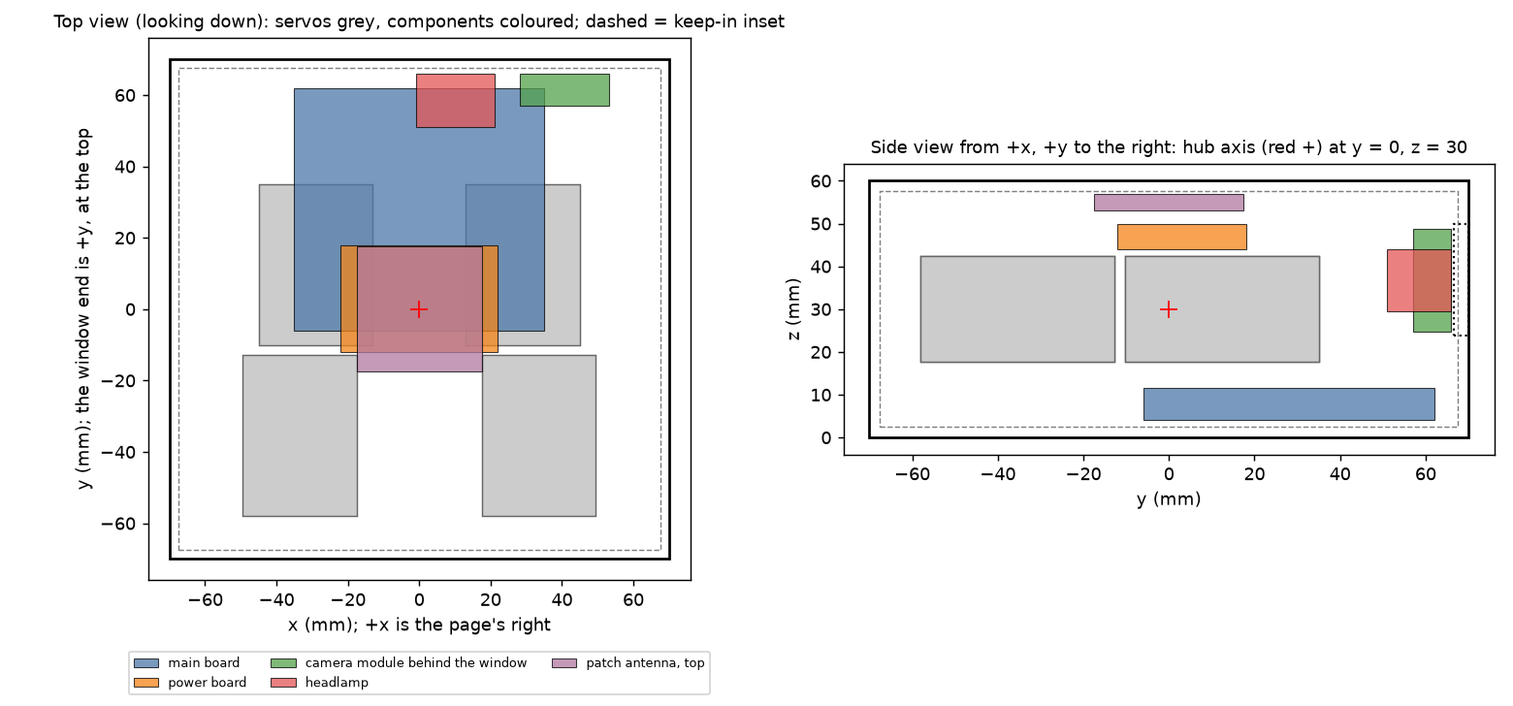
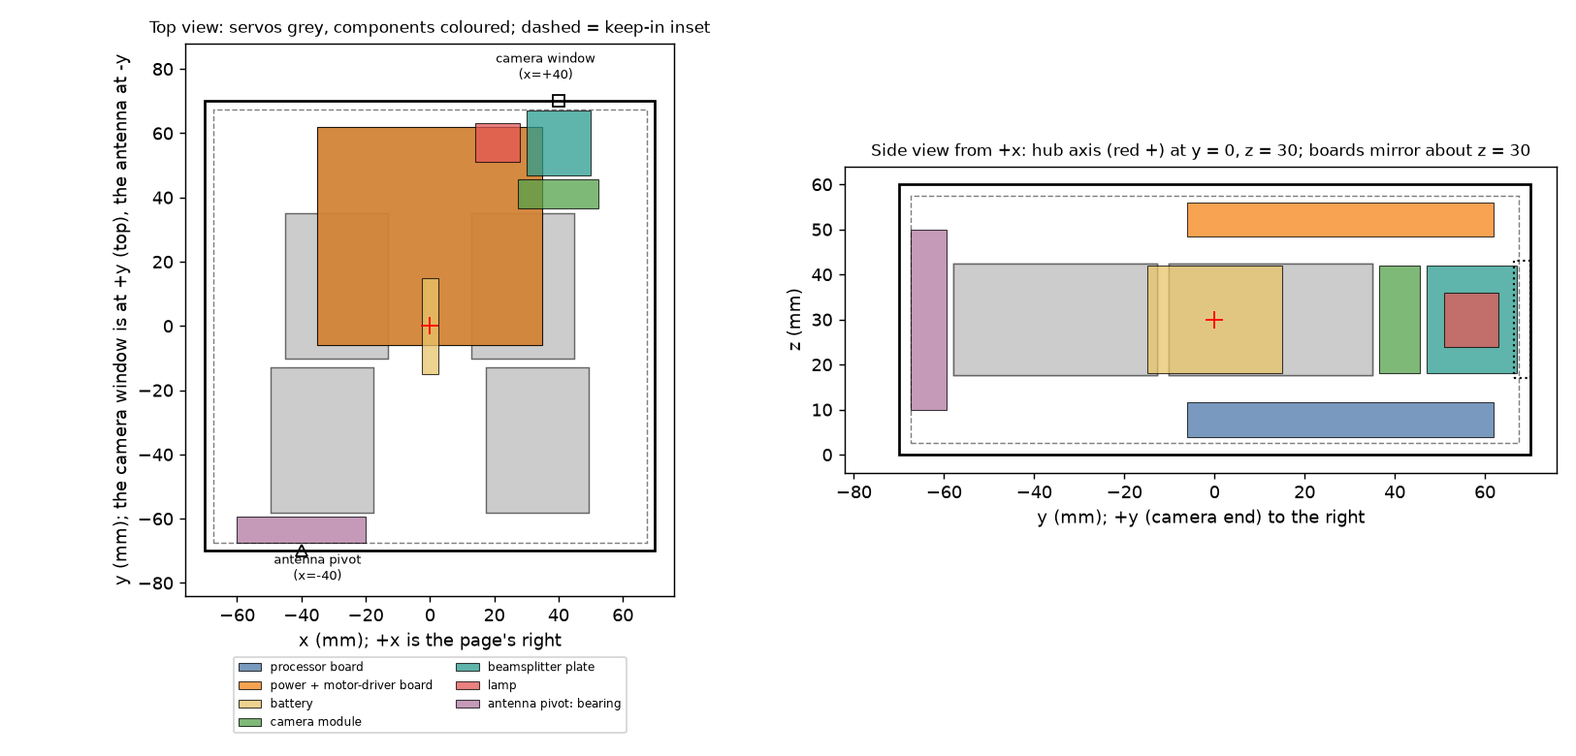
Body redesign: owner's layout decisions (identical top/bottom lids, shared camera and lamp window, gravity-oriented antenna), power study and revised layout
Claude-Session: https://claude.ai/code/session_01B6dv3M1QygXiNnSEJcRBxb

Changed region(s): [[0.0308, 0.0, 0.5231, 0.9973], [0.4923, 0.1813, 1.0, 0.7253]]

diff --git a/hardware/body/layout.py b/hardware/body/layout.py
@@ -104,34 +104,42 @@ for n, (x0, x1, y0, y1, z0, z1) in bays.items():
     print(f"  {n:38s} {m.sum() * vox:6.0f} cm3   extent {e} mm")
 
 # ---------------- components (PLACEHOLDERS: sizes and masses are assumptions, no parts chosen) ----------------
-WIN_X, WIN_Z = 40.8, 36.8       # body.py: window axis on the +y face
-LAMP_X = WIN_X - 30.6           # headlamp about 30.6 mm toward -x from the window axis (body-spec.md), same height
-comps = {  # name: (mass g, (x0, x1, y0, y1, z0, z1), note)
-    "main board (processor, 4 motor drivers, servo bus)": (35.0, (-35, 35, -6, 62, 4, 11.6),   "70 x 68 x 7.6 mm placeholder, low in the lower bay"),
-    "power board (solar conditioning, no battery)":       (12.0, (-22, 22, -12, 18, 44, 50),    "44 x 30 x 6 mm placeholder, upper bay"),
-    "camera module behind the window":                    (12.0, (WIN_X - 12.5, WIN_X + 12.5, 57, 66, WIN_Z - 12, WIN_Z + 12), "25 x 24 x 9 mm module plus lens, lens 1 mm behind the pane"),
-    "headlamp (sealed beam) and driver":                  (5.0,  (LAMP_X - 11, LAMP_X + 11, 51, 66, WIN_Z - 7.25, WIN_Z + 7.25), "22 x 14.5 bezel, 15 mm deep"),
-    "patch antenna, top":                                 (6.0,  (-17.5, 17.5, -17.5, 17.5, 53, 57), "35 x 35 x 4 mm; needs a non-conductive window in a carbon top"),
+# Owner's decisions (2026-11-11): top and bottom faces are identical lids carrying cells; the body is kept symmetric about the transverse (z = 30) plane;
+# the camera window is centred on a 60 x 60 mm square at one end of an end face (30 mm from the top, bottom and side edges): x = +40, z = 30 on the +y face;
+# one window shared by camera and lamp through a beamsplitter; the antenna on the opposite end face at the diagonally opposite position, x = -40, z = 30 on the -y face
+# (a 180 degree turn about z carries the camera's square onto the antenna's), on a gravity-oriented pivot with a counterweight.
+WIN_X, WIN_Z = 40.0, 30.0
+ANT_X, ANT_Z = -40.0, 30.0
+comps = {  # name: (mass g, (x0, x1, y0, y1, z0, z1), note, optional (x, y, z) of the centre of mass if not the box centre)
+    "processor board (lower lid module)":   (20.0, (-35, 35, -6, 62, 4, 11.6),      "70 x 68 x 7.6 mm placeholder, rides on the bottom lid", None),
+    "power + motor-driver board (upper lid module)": (20.0, (-35, 35, -6, 62, 48.4, 56.0), "mirror of the lower board about z = 30, rides on the top lid", None),
+    "battery (500 mAh class, 1S)":          (12.0, (-2.5, 2.5, -15, 15, 18, 42),    "in the 16 mm gap between the servo pairs; the servos and wheel motors need 12 V and 6 V rails (boost) or a 2S pack", None),
+    "camera module":                        (12.0, (WIN_X - 12.5, WIN_X + 12.5, 36.5, 45.5, WIN_Z - 12, WIN_Z + 12), "25 x 24 x 9 mm, looking +y through the beamsplitter", None),
+    "beamsplitter plate, 45 degrees":       (3.0,  (WIN_X - 10, WIN_X + 10, 47, 67, WIN_Z - 12, WIN_Z + 12), "28 x 24 x 1.5 mm glass plate at 45 degrees; box is its bounding volume. A 25 mm cube would be about 39 g (my estimate)", None),
+    "lamp (LED and lens), shines +x onto the plate": (5.0, (14, 28, 51, 63, WIN_Z - 6, WIN_Z + 6), "on the body-centre side of the plate, which reflects it toward +y and out of the window", None),
+    "antenna pivot: bearing, rotary RF joint, counterweight disc": (10.0, (ANT_X - 20, ANT_X + 20, -67.5, -59.5, ANT_Z - 20, ANT_Z + 20), "swing disc 40 mm across, 8 mm deep, behind the -y wall; 2 mm clear of servo A", None),
 }
-extra_mass = {  # no position in the box needed: on or near the centre
-    "wiring, connectors, servo cables": (15.0, (0.0, 0.0, HZ)),
-    "solar cells (four faces, about 60% coverage)": (None, (0.0, 0.0, HZ)),
+OUT_COMPS = {  # outside the envelope, counted for mass and balance only
+    "antenna whip, bend and stub (outside the -y face)": (3.0, (ANT_X, -76.0, ANT_Z)),
 }
-CELL_AREA_CM2 = (2 * 140 * 140 + 2 * 140 * 60) / 100.0 * 0.6      # ASM: two 140 x 140 faces and two 140 x 60 faces, 60% covered
-CELL_G_PER_CM2 = (0.15, 0.25, 0.35)                              # ASM: thin to thick bonded cells with cover and wiring; no cell chosen
+extra_mass = {"wiring, connectors, board-to-board links": (15.0, (0.0, 0.0, HZ))}
+# cells: owner's rule = top and bottom (identical), plus both end faces; none on the hub faces (the struts are there)
+FACE_TB = 10 * (39.6 * 23.5) / 100 + 4 * (19.6 * 44.0) / 100       # cm2: black unit's top face layout (photo-measurements.md)
+FACE_END = 3 * (23.5 * 39.6) / 100                                  # cm2: three cells standing in the 80 x 60 mm beside the window or antenna square
+CELL_AREA_CM2 = 2 * FACE_TB + 2 * FACE_END
+CELL_G_PER_CM2 = (0.15, 0.25, 0.35)                                # ASM: no cell chosen
 
 print("\nplacement checks (box inside the keep-in volume, clear of servos and hub, clear of each other):")
 ok_all = True
 placed = {}
-for n, (m, (x0, x1, y0, y1, z0, z1), note) in comps.items():
+for n, (m, (x0, x1, y0, y1, z0, z1), note, _c) in comps.items():
     bm = box_mask(x0, x1, y0, y1, z0, z1)
-    n_vox = bm.sum()
     bad_keep = (bm & ~keep_in).sum()
     bad_occ = (bm & occ).sum()
     placed[n] = bm
     ok = bad_keep == 0 and bad_occ == 0
     ok_all &= ok
-    print(f"  {'OK ' if ok else 'BAD'} {n:52s} {m:5.1f} g  {(x1 - x0):4.0f} x {(y1 - y0):3.0f} x {(z1 - z0):3.0f}   outside keep-in {bad_keep * vox:.1f} cm3, on servos/hub {bad_occ * vox:.1f} cm3")
+    print(f"  {'OK ' if ok else 'BAD'} {n:60s} {m:5.1f} g  {(x1 - x0):4.0f} x {(y1 - y0):3.0f} x {(z1 - z0):3.0f}   outside keep-in {bad_keep * vox:.1f} cm3, on servos/hub {bad_occ * vox:.1f} cm3")
 names = list(placed)
 for i in range(len(names)):
     for j in range(i + 1, len(names)):
@@ -142,72 +150,78 @@ for i in range(len(names)):
 print("  all placements clear" if ok_all else "  PROBLEMS above")
 used = sum(m.sum() for m in placed.values()) * vox
 print(f"  placed components take {used:.0f} cm3 of the {free.sum() * vox:.0f} cm3 free ({used / (free.sum() * vox):.0%})")
+print(f"  cells: top and bottom {FACE_TB:.1f} cm2 each, end faces {FACE_END:.1f} cm2 each, total {CELL_AREA_CM2:.0f} cm2")
 
 # ---------------- mass and centre of mass ----------------
 print("\nmass of the body contents (grams) against the 386 g left of 1.0 kg:")
-SHELL = {"woven plates, 1.0 mm": 113.0 + 28.0, "forged tub, 1.5 mm": 164.0}   # budget table in docs/body-redesign.md (plates plus about 28 g of keys and adhesive)
-ALLOW = 4 * 6.0 + 4 * 2.0 + 15.0 - 15.0                                       # bore rings, screws and inserts (the 15 g seal is counted below)
+SHELL = {"woven plates, 1.0 mm": 113.0 + 28.0, "forged, 1.5 mm": 164.0}      # budget table in docs/body-redesign.md (plates plus about 28 g of keys and adhesive)
+ALLOW = 4 * 6.0 + 4 * 2.0                                                      # bore rings, screws and inserts
 SEAL = 15.0
+elec = sum(m for m, _, _, _ in comps.values()) + sum(m for m, _ in OUT_COMPS.values()) + extra_mass["wiring, connectors, board-to-board links"][0]
 for shell_name, shell_g in SHELL.items():
     for cg in CELL_G_PER_CM2:
         cells = CELL_AREA_CM2 * cg
-        parts = sum(m for m, _, _ in comps.values()) + extra_mass["wiring, connectors, servo cables"][0]
-        total = shell_g + ALLOW + SEAL + parts + cells
-        print(f"  {shell_name:22s} cells {cg:.2f} g/cm2 ({cells:3.0f} g): shell {shell_g:3.0f} + rings/screws {ALLOW:2.0f} + seal {SEAL:.0f} + electronics etc {parts:3.0f} + cells {cells:3.0f} = {total:4.0f} g  ({'over by' if total > 386 else 'under by'} {abs(total - 386):.0f} g)")
+        total = shell_g + ALLOW + SEAL + elec + cells
+        print(f"  {shell_name:22s} cells {cg:.2f} g/cm2 ({cells:3.0f} g): shell {shell_g:3.0f} + rings/screws {ALLOW:2.0f} + seal {SEAL:.0f} + electronics etc {elec:3.0f} + cells {cells:3.0f} = {total:4.0f} g  ({'over by' if total > 386 else 'under by'} {abs(total - 386):.0f} g)")
 
-# centre of mass (y, z) of the body contents with plates and mid cells; x is symmetric apart from the camera and headlamp
+lumps = []   # (mass, x, y, z)
 shell_g = SHELL["woven plates, 1.0 mm"]
 cells_g = CELL_AREA_CM2 * CELL_G_PER_CM2[1]
-lumps = [(shell_g + ALLOW + SEAL, 0.0, HZ), (cells_g, 0.0, HZ), (extra_mass["wiring, connectors, servo cables"][0], 0.0, HZ)]
-for n, (m, (x0, x1, y0, y1, z0, z1), _) in comps.items():
-    lumps.append((m, (y0 + y1) / 2, (z0 + z1) / 2))
-M = sum(m for m, _, _ in lumps)
-cy = sum(m * y for m, y, _ in lumps) / M
-cz = sum(m * z for m, _, z in lumps) / M
-print(f"\nbody contents (plates, mid cells): {M:.0f} g, centre of mass y = {cy:+.1f} mm, z = {cz:.1f} mm (hub axis at y = 0, z = 30)")
-# chassis_sim.py: the whole-rover centre of mass at a symmetric stance is (body lump * 0 + hub + servos) / total, because the struts, wheels and
-# supports are roughly symmetric about y = 0; that gave -2.9 mm with the 386 g body lump at y = 0. Replace the lump by this layout's contents.
+# cells: top and bottom equal and opposite in z; end cells sit in the x ranges not taken by the window or the antenna
+cell_each = lambda a: a * CELL_G_PER_CM2[1]
+lumps += [(cell_each(FACE_TB), 0.0, 0.0, 60.0), (cell_each(FACE_TB), 0.0, 0.0, 0.0),
+          (cell_each(FACE_END), -30.0, 70.0, HZ), (cell_each(FACE_END), 30.0, -70.0, HZ)]      # front cells at x -67..7, back cells at x -7..67 (centroids about -30 and +30)
+lumps += [(shell_g + ALLOW + SEAL, 0.0, 0.0, HZ), (extra_mass["wiring, connectors, board-to-board links"][0], 0.0, 0.0, HZ)]
+for n, (m, (x0, x1, y0, y1, z0, z1), _, c) in comps.items():
+    lumps.append((m, *(c if c else ((x0 + x1) / 2, (y0 + y1) / 2, (z0 + z1) / 2))))
+for n, (m, (x, y, z)) in OUT_COMPS.items():
+    lumps.append((m, x, y, z))
+# servos and hub parts (the body's frame, both sides), grams from hub.py: servo 55 g each; hub parts 74 g total at the hub axis
+for (tag, side), s_ in servos.items():
+    lumps.append((55.0, side * (s_["xf"] - H.SV_H / 2), (s_["y0"] + s_["y1"]) / 2, HZ))
+lumps.append((74.0, 0.0, -5.0, HZ))
+M = sum(l[0] for l in lumps)
+cx, cy, cz = (sum(l[0] * l[k] for l in lumps) / M for k in (1, 2, 3))
+print(f"\nbody contents + servos + hub (plates, mid cells): {M:.0f} g, centre of mass x = {cx:+.1f}, y = {cy:+.1f}, z = {cz:.1f} mm (hub axis at x = 0, y = 0, z = 30)")
+top = sum(l[0] for l in lumps if l[3] > HZ + 0.01); bot = sum(l[0] for l in lumps if l[3] < HZ - 0.01)
+print(f"mass above z = 30: {top:.0f} g, below: {bot:.0f} g (a transverse-plane-symmetric body has these equal; the camera, antenna and battery sit on the plane)")
+# struts, wheels and supports: add their roughly symmetric lumps (320 g) to get the whole-rover y
 import chassis_sim as C  # noqa: E402
-g = 1000.0
-hub_servo_moment = g * (C.M_HUB * (-5.0) + 2 * 0.055 * C.SERVO_B_Y * 1000 + 2 * 0.055 * C.SERVO_A_Y * 1000)    # g.mm of hub parts and servos about y = 0
-other = g * (C.M_HUB + C.M_SERVO + C.M_STRUT + C.M_WHEEL + C.M_SUPPORT)                                          # g, everything but the body
-sim_y = hub_servo_moment / (C.M_BODY * g + other)
-new_y = (M * cy + hub_servo_moment) / (M + other)
-need = -hub_servo_moment / (C.M_BODY * g)
-print(f"simulation (body lump {C.M_BODY * g:.0f} g at y = 0): whole-rover centre of mass y = {sim_y:+.1f} mm; this layout ({M:.0f} g at y = {cy:+.1f}, total {M + other:.0f} g): y = {new_y:+.1f} mm")
-print(f"a {C.M_BODY * g:.0f} g body would put the whole rover on the hub axis at a centroid of y = {need:+.1f} mm; the z shift of the whole centre of mass is "
-      f"{M * (cz - HZ) / (M + other):+.2f} mm (negligible)")
+struts = C.M_STRUT + C.M_WHEEL + C.M_SUPPORT
+whole_y = (M * cy) / (M + 1000 * struts)
+sim_y = 1000 * (C.M_HUB * -0.005 + 2 * 0.055 * C.SERVO_B_Y + 2 * 0.055 * C.SERVO_A_Y) / 1.0
+print(f"whole-rover centre of mass y (struts, wheels and supports taken symmetric about y = 0): {whole_y:+.2f} mm; the chassis simulation had {sim_y:+.1f} mm with the body lump at the centre")
 
 # ---------------- picture ----------------
 try:
     import matplotlib
     matplotlib.use("Agg")
     import matplotlib.pyplot as plt
-    from matplotlib.patches import Rectangle, Circle
-    fig, ax = plt.subplots(1, 2, figsize=(12, 5.6))
-    cols = {"main": "#4c78a8", "power": "#f58518", "camera": "#54a24b", "headlamp": "#e45756", "patch": "#b279a2"}
-    pal = ["#4c78a8", "#f58518", "#54a24b", "#e45756", "#b279a2"]
+    from matplotlib.patches import Rectangle
+    fig, ax = plt.subplots(1, 2, figsize=(12.5, 6))
+    pal = ["#4c78a8", "#f58518", "#e9c46a", "#54a24b", "#2a9d8f", "#e45756", "#b279a2"]
 
     def draw(a, ia, ib, xl, yl, title):
         a.add_patch(Rectangle((-70, 0) if ib == 2 else (-70, -70), 140, 60 if ib == 2 else 140, fill=False, lw=1.5, ec="k"))
         a.add_patch(Rectangle((-70 + OFF, OFF if ib == 2 else -70 + OFF), 140 - 2 * OFF, (60 - 2 * OFF) if ib == 2 else 140 - 2 * OFF, fill=False, lw=0.8, ls="--", ec="gray"))
-        for (tag, side), s in servos.items():
-            ext = {0: (side * (s["xf"] - H.SV_H), side * s["xf"]), 1: (s["y0"], s["y1"]), 2: (HZ - SV_Z, HZ + SV_Z)}
+        for (tag, side), s_ in servos.items():
+            ext = {0: (side * (s_["xf"] - H.SV_H), side * s_["xf"]), 1: (s_["y0"], s_["y1"]), 2: (HZ - SV_Z, HZ + SV_Z)}
             (a0, a1), (b0, b1) = ext[ia], ext[ib]
             a.add_patch(Rectangle((min(a0, a1), min(b0, b1)), abs(a1 - a0), abs(b1 - b0), fc="#cccccc", ec="#666666", lw=0.8))
-        for k, (n, (m, (x0, x1, y0, y1, z0, z1), _)) in enumerate(comps.items()):
+        for k, (n, (m, (x0, x1, y0, y1, z0, z1), _, _c)) in enumerate(comps.items()):
             e = {0: (x0, x1), 1: (y0, y1), 2: (z0, z1)}
             (a0, a1), (b0, b1) = e[ia], e[ib]
-            a.add_patch(Rectangle((a0, b0), a1 - a0, b1 - b0, fc=pal[k], alpha=0.75, ec="k", lw=0.6, label=n.split(" (")[0]))
+            a.add_patch(Rectangle((a0, b0), a1 - a0, b1 - b0, fc=pal[k % len(pal)], alpha=0.75, ec="k", lw=0.6, label=n.split(" (")[0].split(",")[0]))
         a.plot([0], [0 if ib == 1 else HZ], "r+", ms=10)
-        a.set_xlim(-76, 76); a.set_ylim((-4, 64) if ib == 2 else (-76, 76)); a.set_aspect("equal")
-        a.set_xlabel(xl); a.set_ylabel(yl); a.set_title(title, fontsize=10)
-    draw(ax[0], 0, 1, "x (mm); +x is the page's right", "y (mm); the window end is +y, at the top", "Top view (looking down): servos grey, components coloured; dashed = keep-in inset")
-    draw(ax[1], 1, 2, "y (mm)", "z (mm)", "Side view from +x, +y to the right: hub axis (red +) at y = 0, z = 30")
-    ax[1].set_xlim(-76, 76)
-    # the window on the front face, in the side view
+        a.set_xlim(-76, 76); a.set_ylim((-4, 64) if ib == 2 else (-84, 88)); a.set_aspect("equal")
+        a.set_xlabel(xl); a.set_ylabel(yl); a.set_title(title, fontsize=9.5)
+    draw(ax[0], 0, 1, "x (mm); +x is the page's right", "y (mm); the camera window is at +y (top), the antenna at -y", "Top view: servos grey, components coloured; dashed = keep-in inset")
+    ax[0].plot([WIN_X], [70], "ks", ms=7, mfc="none"); ax[0].annotate("camera window\n(x=+40)", (WIN_X, 70), (WIN_X - 4, 77), fontsize=7, ha="center")
+    ax[0].plot([ANT_X], [-70], "k^", ms=7, mfc="none"); ax[0].annotate("antenna pivot\n(x=-40)", (ANT_X, -70), (ANT_X + 5, -79), fontsize=7, ha="center")
+    ax[0].legend(fontsize=6.5, loc="upper center", bbox_to_anchor=(0.5, -0.1), ncol=2)
+    draw(ax[1], 1, 2, "y (mm); +y (camera end) to the right", "z (mm)", "Side view from +x: hub axis (red +) at y = 0, z = 30; boards mirror about z = 30")
+    ax[1].set_xlim(-82, 76)
     ax[1].add_patch(Rectangle((66.5, WIN_Z - 13), 3.5, 26, fc="none", ec="k", lw=1.2, ls=":"))
-    ax[0].legend(fontsize=7, loc="upper center", bbox_to_anchor=(0.5, -0.12), ncol=3)
     out = HERE.parent.parent / "docs" / "images" / "body-layout.png"
     out.parent.mkdir(exist_ok=True)
     fig.tight_layout(); fig.savefig(out, dpi=130); print("\nwrote", out)

diff --git a/hardware/body/power_budget.py b/hardware/body/power_budget.py
@@ -1,0 +1,71 @@
+"""Power: what the cells can supply against what the rover uses, in sun, overcast and indoors.
+
+Run: python3 hardware/body/power_budget.py   (no CAD needed). SRC = a cited source (docs/body-redesign.md), ASM = my assumption.
+The answer to "can the panels charge the rover or run a subsystem" depends mostly on the light, so every combination is printed.
+"""
+# ---- cell area (cm2), from the layout target (docs/photo-measurements.md: black unit's top face) ----
+LARGE = 39.6 * 23.5 / 100          # cm2, 10 of them per top or bottom face (5 + 5 columns, SRC: photo measurement)
+CENTRE = 19.6 * 44.0 / 100         # cm2, 4 of them (SRC: photo measurement, plus or minus 2 mm)
+FACE_TB = 10 * LARGE + 4 * CENTRE  # one top or bottom face
+FACE_END = 3 * 23.5 * 39.6 / 100   # one end face: 3 cells standing in the 80 x 60 mm left beside the 60 x 60 mm window or antenna square (my layout)
+CELLS_CM2 = {"top": FACE_TB, "bottom": FACE_TB, "front": FACE_END, "back": FACE_END}
+print("cell area per face (cm2):", {k: round(v, 1) for k, v in CELLS_CM2.items()}, f"; total {sum(CELLS_CM2.values()):.0f} cm2")
+
+# ---- what one lit face can deliver (W) ----
+SUN = 0.100          # W/cm2, 1000 W/m2 AM1.5 (SRC: 100 klux = 1000 W/m2)
+ETA = (0.15, 0.20, 0.24)   # ASM: cheap cells, good monocrystalline, high-efficiency; no cell chosen
+print("\nupward face, power in watts (cell efficiency 15 / 20 / 24 %):")
+rows = [("full sun, panel square to it", SUN, 1.0), ("full sun, sun 45 deg off the normal", SUN, 0.707),
+        ("thin overcast (about 10% of sun, ASM)", 0.1 * SUN, 1.0)]
+solar = {}
+for n, i, c in rows:
+    p = [FACE_TB * i * e * c for e in ETA]
+    solar[n] = p[1]
+    print(f"  {n:42s} " + "  ".join(f"{v:6.2f} W" for v in p))
+# indoors: measured output densities at 500 lux LED (SRC: about 8 uW/cm2 polycrystalline Si, 10 uW/cm2 amorphous Si; this is OUTPUT, not irradiance)
+for n, d in (("indoors, 500 lux LED, poly-Si (8 uW/cm2)", 8e-6), ("indoors, 500 lux LED, a-Si (10 uW/cm2)", 10e-6)):
+    p = FACE_TB * d
+    solar[n] = p
+    print(f"  {n:42s} {p * 1000:6.2f} mW")
+
+# ---- loads (W) ----
+V_SERVO = 12.0
+loads = {
+    "keep-alive: MCU deep sleep + RTC + wake input (ASM 0.1 mW; the chip alone is 7-8 uA, SRC)": 0.0001,
+    "controller awake, radio connected but idle (31.7 mA at 3.3 V, SRC dev-board measurement)": 0.105,
+    "radio transmitting (ASM, typical ESP32-class 0.5-0.8 W; not checked)": 0.65,
+    "camera streaming (ASM 0.3 W)": 0.3,
+    "lamp on, through the 50/50 beamsplitter (ASM 0.2 W)": 0.2,
+    "one servo moving at no load (180 mA at 12 V, SRC)": 0.180 * V_SERVO,
+    "one servo holding or standby (6 mA datasheet to 60 mA other listings, at 12 V, SRC; sources disagree)": 0.030 * V_SERVO,
+    "four wheel motors driving flat at 40 mm/s (ASM: about 0.1 W each; no-load 0.15 A at 6 V, SRC)": 0.4,
+}
+print("\nloads (W):")
+for n, w in loads.items():
+    print(f"  {w:7.4f}  {n}")
+L = list(loads.values())
+scen = {
+    "A keep-alive (RTC, wake input)":                         L[0],
+    "B controller + radio idle":                              L[1],
+    "C camera + radio streaming + lamp":                      L[1] + L[2] + L[3] + L[4],
+    "D driving: wheels + controller + radio + camera, servos holding": L[7] + L[1] + L[2] + L[3] + 4 * L[6],
+    "E posing one strut: 1 servo moving, 3 holding, + C":     L[5] + 3 * L[6] + L[1] + L[2] + L[3] + L[4],
+}
+print("\nscenarios (W), the servos holding at 30 mA each (the 6 mA and 60 mA cases move D and E by -0.3 and +0.7 W):")
+for n, w in scen.items():
+    print(f"  {w:7.3f} W  {n}")
+
+print("\nsurplus of one lit face over each scenario (W; negative = the panel cannot carry it):")
+print(f"  {'':44s}" + "".join(f"{s[0]:>9s}" for s in scen))
+for n, p in solar.items():
+    print(f"  {n:44s}" + "".join(f"{p - w:9.3f}" for w in scen.values()))
+
+# ---- battery ----
+BATT_WH = 0.5 * 3.7           # a 500 mAh single cell, ASM
+print(f"\nbattery {BATT_WH:.2f} Wh (500 mAh at 3.7 V, ASM; about 12 g): runtime on D {BATT_WH / scen['D driving: wheels + controller + radio + camera, servos holding'] * 60:.0f} min, on C {BATT_WH / scen['C camera + radio streaming + lamp'] * 60:.0f} min, "
+      f"on B {BATT_WH / scen['B controller + radio idle']:.0f} h")
+ind = solar["indoors, 500 lux LED, a-Si (10 uW/cm2)"]
+print(f"indoors the lit face gives {ind * 1000:.2f} mW: that is {ind / scen['B controller + radio idle'] * 100:.1f}% of scenario B and {ind * 24:.3f} Wh a day ({ind * 24 / BATT_WH * 100:.1f}% of the battery).")
+sun = solar["full sun, panel square to it"]
+print(f"in full sun it gives {sun:.2f} W: scenario C runs from the panel ({sun - scen['C camera + radio streaming + lamp']:+.2f} W) and the battery charges at about {max(sun - scen['B controller + radio idle'], 0):.1f} W when idle, "
+      f"so about {BATT_WH / max(sun - scen['B controller + radio idle'], 1e-9) * 60:.0f} min from empty.")

diff --git a/docs/body-redesign.md b/docs/body-redesign.md
@@ -155,6 +155,82 @@ Top view looking down with +y (the window end) at the top and **+x on the page's
 2. Decide the lid face, which fixes the joints and the seal for either shell material.
 3. Re-run the comparison (`cf_cost.py`, `cf_compare.py`) with the real wall thickness, mount count and mass.
 
+## Owner's layout decisions and power study (2026-11-11)
+
+**Decisions (owner), recorded in `CLAUDE.md`:**
+1. **Top and bottom faces are the lids**, identical, each carrying solar cells so the rover works as well upside down; cells also on the front and back (end) faces, as the papers planned (cells on four of six faces); none on the hub faces, where the struts are.
+2. **The body is kept symmetric about the transverse (z = 30) plane**: for a centred centre of mass and so the same parts can be reused around the body.
+3. **Camera window centred on a 60 x 60 mm square at one end of an end face**, i.e. 30 mm from the top, bottom and side edges: x = +40, z = 30 on the +y face. (The earlier window, copied from the silver unit, was at x = +40.8, z = 36.8.)
+4. **One window shared by camera and lamp**, through a beamsplitter.
+5. **Antenna on the opposite end face, at the diagonally opposite position** (x = -40, z = 30 on the -y face: a 180 degree turn about z carries the camera's square onto the antenna's), a whip standing vertically in the plane of the face, on a low-friction pivot with a counterweight so it points up whichever way up the rover is.
+
+**These are deliberate departures from all three descriptions of the original** (papers, silver unit, black unit): none has cells on a bottom lid, a shared camera and lamp window, or a gravity-oriented antenna. The papers' own antenna is a patch on the top face.
+
+### Solar cells: target layout and area
+- **Top and bottom faces (each):** the black unit's measured top-face layout (`photo-measurements.md`): 10 large cells of about 39.6 x 23.5 mm in two columns of five, and 4 centre cells of about 19.6 x 44 mm (plus or minus 2 mm), with gaps of 5 to 8 mm: **127.6 cm2 per face (65% of the 196 cm2 face)**. The NASA Space Place toy decal has 5 + 5 edge rows, 4 centre cells and 2 + 2 more on the other edges, 18 flat cells; it is a simplified drawing, so I used the measured layout. The black unit's raised centre block is left out: the antenna no longer goes there.
+- **End faces (each):** the 60 x 60 mm window or antenna square leaves an 80 x 60 mm area; **three cells of 23.5 x 39.6 mm standing side by side fit** (about 76.5 mm with 3 mm gaps), **27.9 cm2 each**. No source gives an end-face layout; this is my choice. The two end faces are 180 degrees symmetric.
+- **Total 311 cm2** (top 127.6 + bottom 127.6 + two ends 55.8). Mass at an assumed 0.15 to 0.35 g/cm2 (no cell chosen) is **47 to 109 g**; the bottom face alone is 19 to 45 g.
+
+### Power: what the cells can supply (`hardware/body/power_budget.py`)
+Sourced: 1000 W/m2 AM1.5 full sun; measured output at 500 lux LED of about 8 uW/cm2 (polycrystalline silicon) and 10 uW/cm2 (amorphous silicon) ([MDPI, indoor light sources](https://www.mdpi.com/1996-1073/7/3/1500) and a review of indoor photovoltaics); STS3215 about 180 mA moving at 12 V and a standby draw between 6 mA (datasheet) and 60 mA (some listings), sources disagree; a bare ESP32-S3 deep sleep of 7 to 8 uA ([Lucidar](https://lucidar.me/en/esp32/power-consumption-of-esp32-s3-devkitm-1/)) and about 31.7 mA connected on a dev board. Assumed (**ASM**): cell efficiency 15 / 20 / 24%, a 10% overcast, radio transmit 0.65 W, camera 0.3 W, lamp 0.2 W, wheel motors about 0.1 W each.
+
+| One lit face supplies | Power |
+|---|---|
+| Full sun, square to it (20% cells) | **2.55 W** (1.9 to 3.1 W over the efficiency range) |
+| Full sun, 45 degrees off | 1.8 W |
+| Thin overcast (ASM) | 0.26 W |
+| **Indoors, 500 lux LED** | **about 1 to 1.3 mW** |
+
+| Scenario | Load |
+|---|---|
+| A keep-alive: MCU deep sleep, RTC, wake input | about 0.1 mW (ASM) |
+| B controller awake, radio idle | 0.105 W |
+| C camera, radio streaming and lamp | 1.26 W |
+| D driving (wheels, controller, radio, camera; four servos holding at 30 mA each) | 2.9 W (servo hold alone is 1.4 W; 0.3 to 2.9 W over the standby range) |
+| E posing one strut (one servo moving) | 4.5 W |
+
+Surplus of one lit face (W): in full sun A +2.55, B +2.45, **C +1.30, D -0.34, E -1.94**; overcast A +0.26, B +0.15, C and beyond negative; **indoors only A is positive (+1 mW) and even B is short by 0.1 W**. A 500 mAh battery (1.85 Wh, about 12 g, ASM) runs scenario D for about 38 minutes, C for 88 minutes and B for 18 hours; indoors the panel adds 0.031 Wh a day, 1.7% of it.
+
+**What this means for your two ideas:**
+- **Panels charging the rover:** works **outdoors**: in sun an idle rover (B) nets +2.4 W and the battery refills in about 45 minutes; even thin overcast beats idle (+0.15 W). **Indoors it does not**: 1.3 mW is about 1% of idle-with-radio. So the panels are an outdoor charger and an indoor trickle at best.
+- **A subsystem run directly from the panels, so battery loads can power down fully:** in sun the whole controller, radio, camera and lamp (C, 1.26 W) runs from one face with 1.3 W to spare, so that works outdoors. **Driving (D) and posing (E) exceed one face even in full sun**, so they need the battery (the cells extend its runtime). **Indoors the only thing the cells can run is a micro-power keep-alive** (scenario A, a timer or wake input, tens of microwatts), which is enough to let the battery loads hard-off with a load switch and be woken from outside.
+- **Suggested architecture (mine, for your decision):** three tiers: a keep-alive controller on the cells with a small supercapacitor; the battery behind a load switch for everything else (hard off at idle); the cells topping up the battery outdoors. **Servo hold current is the biggest unknown and the biggest lever**: four servos holding is 0.3 to 2.9 W against the sources' 6 to 60 mA range, so test whether the STS3215 holds a pose unpowered (already in the handover's prototype tests); if it does, idle drops to the keep-alive.
+- **The bottom cells** exist for inverted operation. Right way up they see almost no light (the floor is 32 mm below, in the rover's own shadow), so they cost 19 to 45 g for a use that is occasional. That is your choice; the numbers just show the price.
+- Not decided: the cell type (a-Si does better indoors, crystalline outdoors; the indoor figures are roughly 8 to 10 uW/cm2 for either), the battery chemistry and voltage (the servos and wheel motors want 12 V and 6 V, so boost converters or a 2S pack, neither modelled), and the radio.
+
+### Layout with these decisions (`hardware/body/layout.py`; first pass, placeholders)
+- **Two identical lid modules:** a processor board (about 20 g) on the bottom lid and a power and motor-driver board (about 20 g) on the top lid, mirror images about z = 30; the **mass above z = 30 equals the mass below (52 g each, cells and boards)**. The camera, beamsplitter, lamp, battery and antenna pivot sit on the plane. **Centre of mass x = +0.3 mm, z = 30.0 mm** (servos and hub included). The lid modules need a board-to-board link between them when a lid is removed: not designed.
+- **Camera and lamp:** window axis at x = +40, z = 30. The camera (25 x 24 x 9 mm) sits behind at y = 36.5 to 45.5, looking +y through a 28 x 24 x 1.5 mm glass **plate** beamsplitter at 45 degrees (bounding box 20 x 20 x 24 mm at y = 47 to 67), and the lamp is on the body-centre side of the plate (x = 14 to 28) shining +x so the plate reflects it out of the window. All inside the free front bay, clear of servo B by 1 mm. **A 25 mm cube beamsplitter would weigh about 39 g (my estimate) against about 3 g for a plate.**
+- **Antenna pivot:** a bearing, rotary RF joint and a 40 mm swing disc carrying the counterweight, behind the -y wall at x = -40, z = 30, 8 mm deep (y = -67.5 to -59.5), 2 mm clear of servo A; the whip stands outside.
+- **All placeholders clear** the keep-in volume, the servos and each other; they use 14% of the free volume (113 of 818 cm3). Volume is still not the constraint.
+- **Mass** (shell, rings and screws 32 g, seal 15 g, electronics 100 g now including battery, beamsplitter, pivot and wiring, and cells):
+
+| Shell | cells 0.15 g/cm2 (47 g) | 0.25 (78 g) | 0.35 (109 g) |
+|---|---|---|---|
+| woven plates 1.0 mm + keys (141 g) | 335 g (51 g under 386) | 366 g (20 under) | 397 g (11 over) |
+| forged 1.5 mm (164 g) | 358 g (28 under) | 389 g (**3 over**) | 420 g (34 over) |
+
+  The shell choice is worth 23 g and the cell choice 62 g. **Forged at 1.5 mm is over budget at the middle cell weight; plates are not.** This leans further toward plates, and a four-wall frame with two identical lids suits plates directly (four 140 x 60 wall plates and two 140 x 140 lid plates), where forged would need a deep through-frame mould.
+- **Balance:** the whole-rover centre of mass is about **-1.7 mm in y** (the simulation had -2.9). It is less well centred than the first pass (-0.9) because the boards are now centred; shifting the boards about 10 mm toward +y would centre it. The antenna's mass (13 g at -y) is partly offset by the camera group (20 g at +y).
+
+### Problems to resolve (found while placing these; none is a blocker)
+**The gravity-oriented antenna (a pendulum):**
+1. **The counterweight must over-balance, not balance.** A pivot balanced exactly stays wherever it is left. For the whip to hang up, the weight opposite the whip must have a larger moment than the whip: the net unbalance sets the restoring torque. Example (mine): 2 g net at 15 mm gives about 0.3 mN.m; pivot and rotary-joint friction of 0.05 to 0.3 mN.m (an assumed range) would leave a dead band of about 10 to 90 degrees. A net unbalance of 5 g at 15 mm (about 0.7 mN.m) is a better start, within the 10 g allowance for the whole pivot.
+2. **It only corrects rotation about its own axis**, which is the y-axis (normal to the end face): the rover rolling side to side. If the body pitches about x (a slope, a stance, a self-righting roll), the axis tilts and the whip tilts with it by the same angle; standing on an end, it points sideways. Fine for the rest poses the rover normally takes, not for steep ones.
+3. **The feed needs a rotary RF joint or a limited-turn cable.** Upright to inverted is 180 degrees of rotation, and several rolls in one direction would wind a plain coax pigtail. A sprung contact or capacitive joint works at low frequency but is lossy and noisy; a stop with a pigtail good for about plus or minus 200 degrees is simpler. The antenna may also be a dummy, as the signal is not part of the scope.
+4. **Damping.** A low-friction pendulum rings when the rover accelerates or rolls; a little viscous damping (grease, an eddy-current magnet) keeps the whip from swinging.
+5. **The whip and the ground.** It stands off the end face by the stub length; rolling end over end in a righting sequence puts the face on the ground, so the whip must be flexible or short.
+6. **The wall.** A shaft hole through the -y wall needs a bonded bushing and a seal; a carbon wall also screens the antenna's feed point.
+
+**The beamsplitter:**
+1. **Light loss.** A 50/50 plate sends half the lamp light out and passes half the scene light to the camera: ambient light to the camera is one stop darker, and the lamp needs about twice the power for the same illumination on the scene.
+2. **Glare.** The lamp light that reflects from the window pane (about 4% per glass surface, then half through the plate) goes straight back into the camera, coaxially, and can swamp the dim return from a diffuse object centimetres away. Remedies: crossed linear polarisers (lamp polarised, camera analyser at 90 degrees), anti-reflection coated glass, a black baffle between the plate and the window, and a wedged plate to avoid a double image. **This is the biggest optical risk and I have not tested it.** A bench test with a cheap plate beamsplitter and a phone camera would decide it before the design is committed.
+
+**Two lids:**
+- Each lid has cells outside and a board inside; **when a lid is removed its board comes with it**, so the link between the two boards (and the cells' wiring) needs a connector at the lid joint on a face both lids share.
+- Both lids need their own gasket and fasteners, doubling the lid screws and inserts in the budget (not yet doubled).
+- Bonded cells on a carbon lid need an insulating layer under them.
+
 ## Open decisions (owner)
 1. **Woven laminate or forged carbon** (revised recommendation: woven plates bonded into a box, for the crisp edges), and the manufacturing route (a mould from a printed plug, CNC-cut plate bonded into a box, or a bought moulded part).
 2. **Closed shell or open frame:** a sealed box is not required by the scope (no spaceflight), but dust and water tolerance would need deciding.

diff --git a/CLAUDE.md b/CLAUDE.md
@@ -20,6 +20,7 @@ by NASA in November 2000. A hobby build in the spirit of the sibling project `ma
 - **Wheel (decided 2026-11-10: stay with the cleated wheel):** the CAD wheel copies the 1997-98 prototype's aluminium cleated wheel, which is what the photographs show. The MUSES-CN papers describe the flight wheels as an assembly of thin conductors and insulator that also senses ground contact, and JPL's 1998 video shows plain banded cylinders. See `docs/wheel-spec.md`, "Which wheel?".
 - **Black unit's camera aperture:** a square window with a bonded (adhesive) border on one end face, on the opposite end from the silver unit's round window. Secondary reference.
 - **Body redesign (owner, 2026-11-11): the body will be carbon fibre or forged carbon, 140 x 140 x 60 mm (the papers' figures, reference unit still undecided), replacing the Hammond box.** Which of the two, and the manufacturing route, are open; see `docs/body-redesign.md`.
+- **Body layout decisions (owner, 2026-11-11), where the replica now deliberately diverges from the originals:** (1) the **top and bottom faces are identical removable lids carrying solar cells** (so the rover works upside down), plus cells on both end faces, none on the hub faces; (2) the body is kept **symmetric about the transverse (z = 30) plane** (centre of mass, and parts reused around the body); (3) the **camera window is centred on a 60 x 60 mm square at one end of an end face** (30 mm from the top, bottom and side edges: x = +40, z = 30 on the +y face); (4) **camera and lamp share one window through a beamsplitter**; (5) the **antenna is on the opposite end face at the diagonally opposite position (x = -40, z = 30 on the -y face), a whip standing up in the plane of the face from a gravity-oriented pivot with a counterweight**. Details, checks and problems found: `docs/body-redesign.md`.
 - **Still open:** scale (the CAD is 1:1), carbon layup versus forged carbon and how the body is made, how the struts are actuated, the end use.
 
 ## Repo layout
